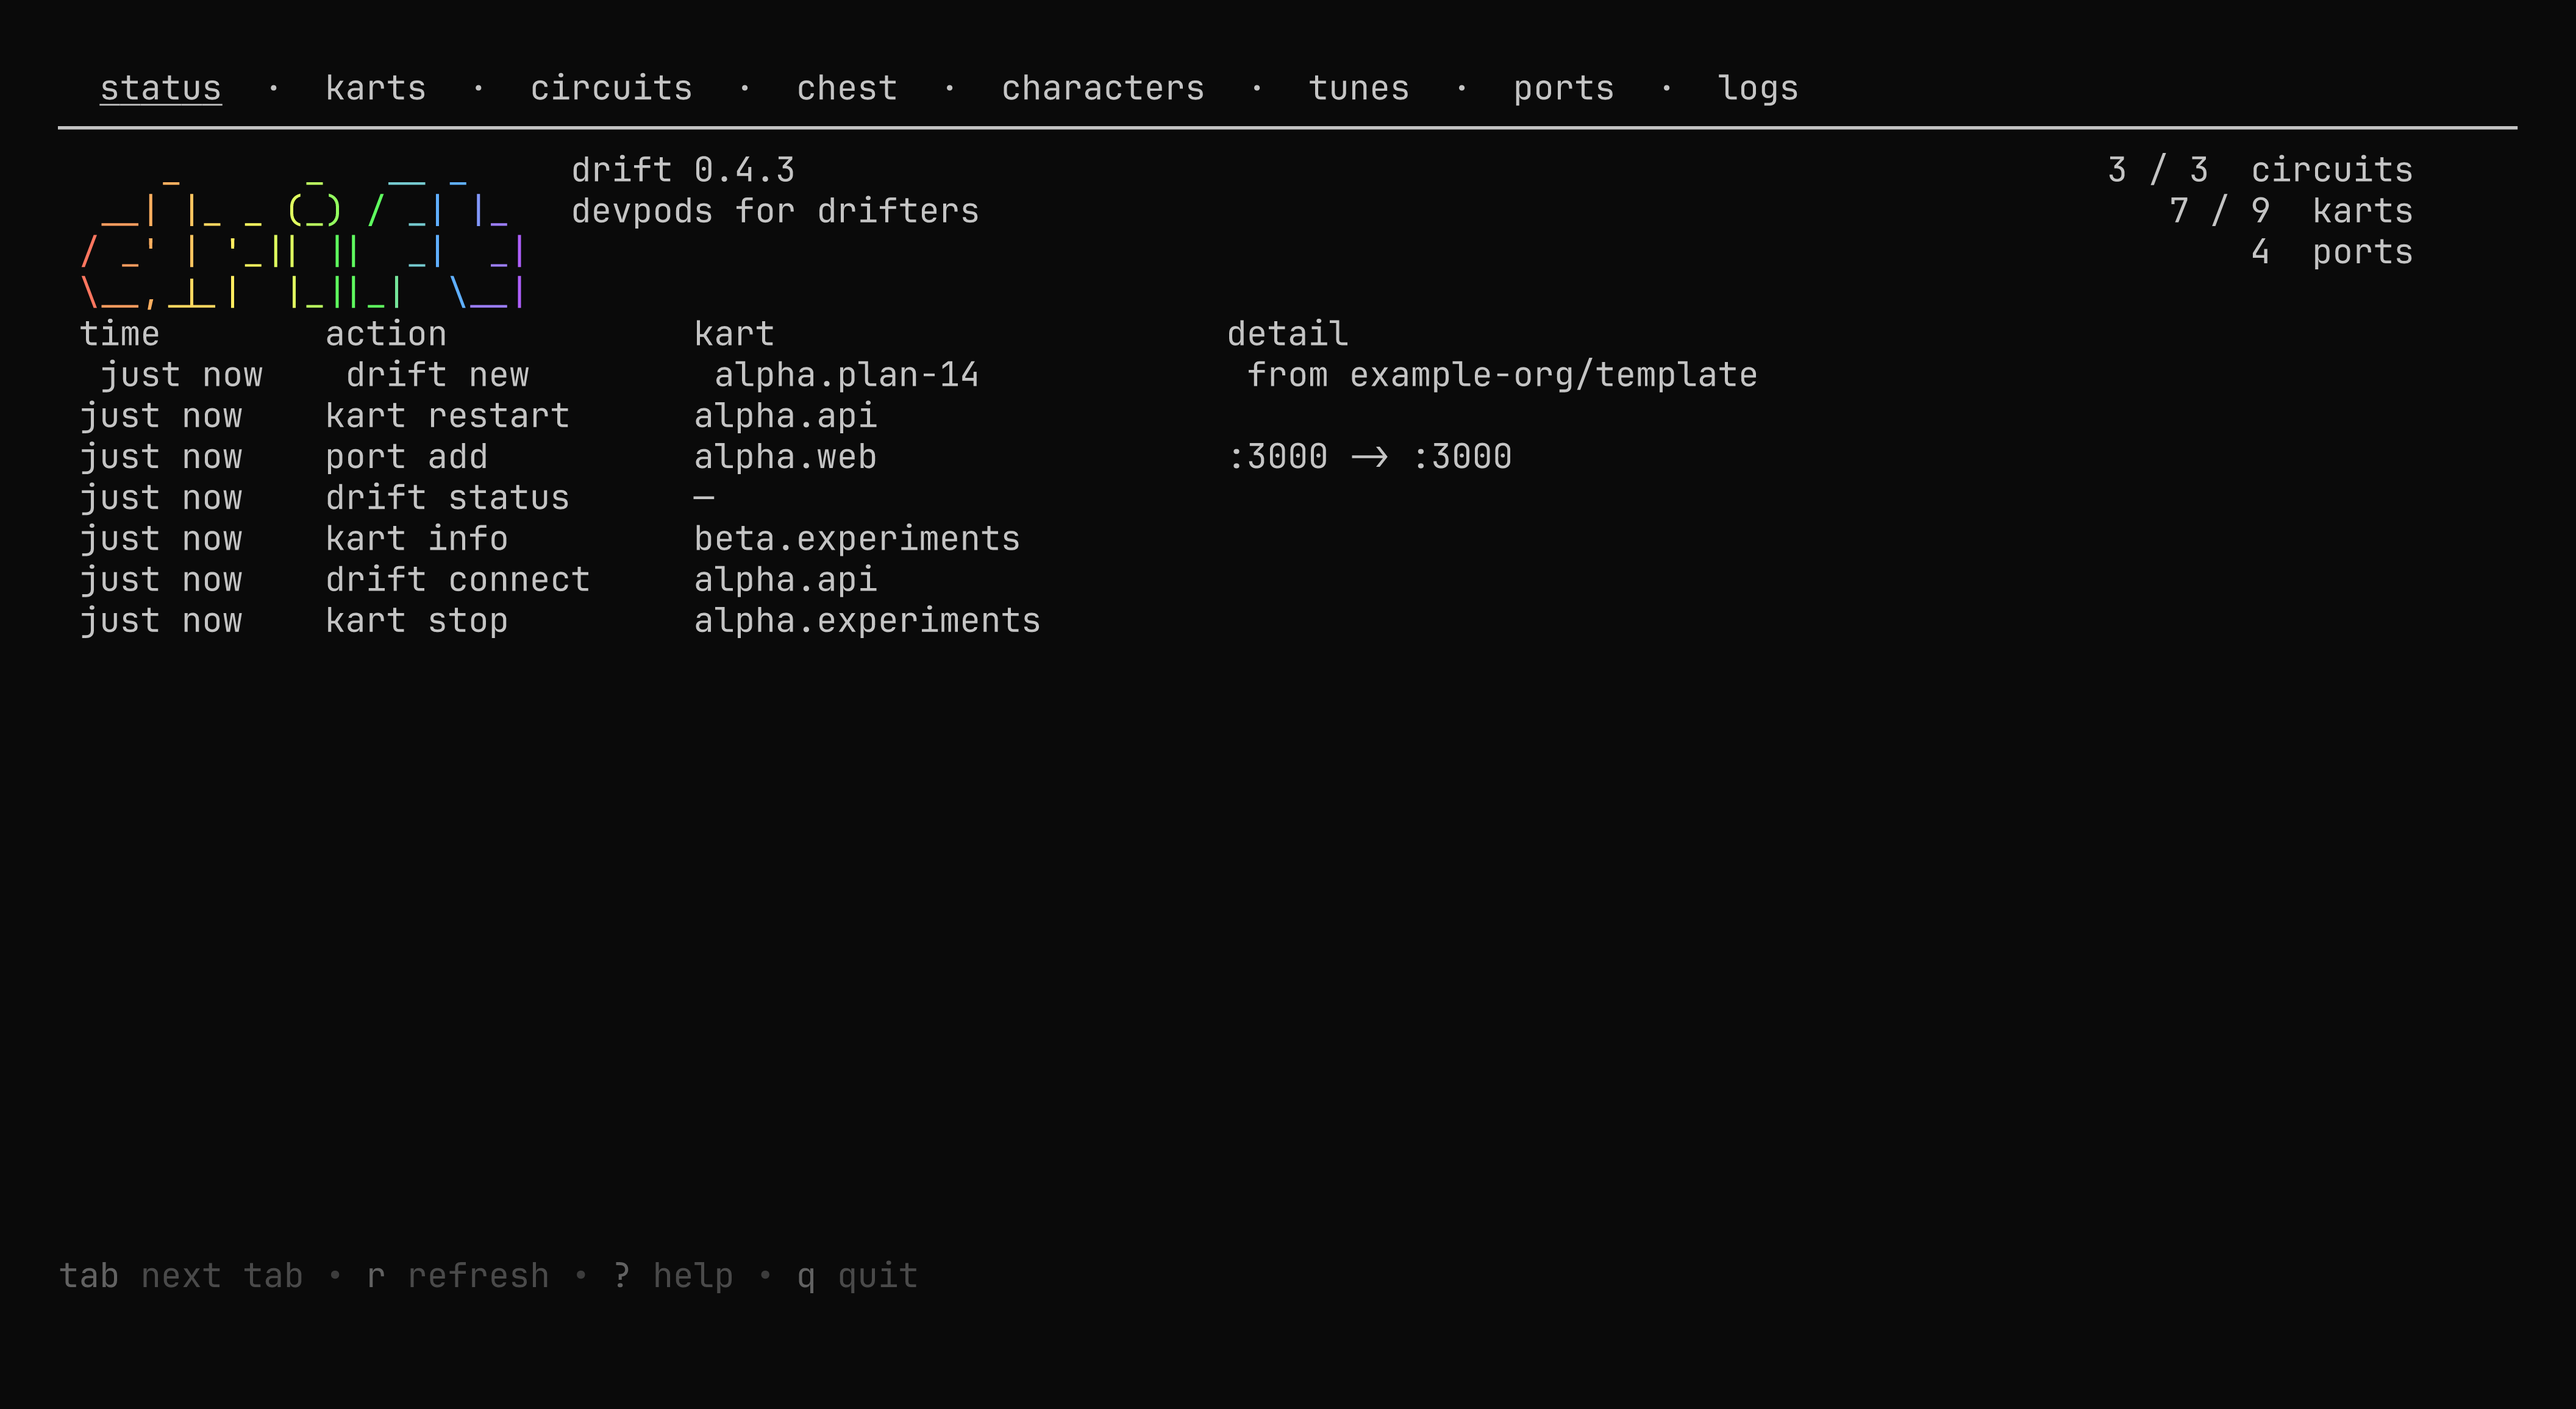
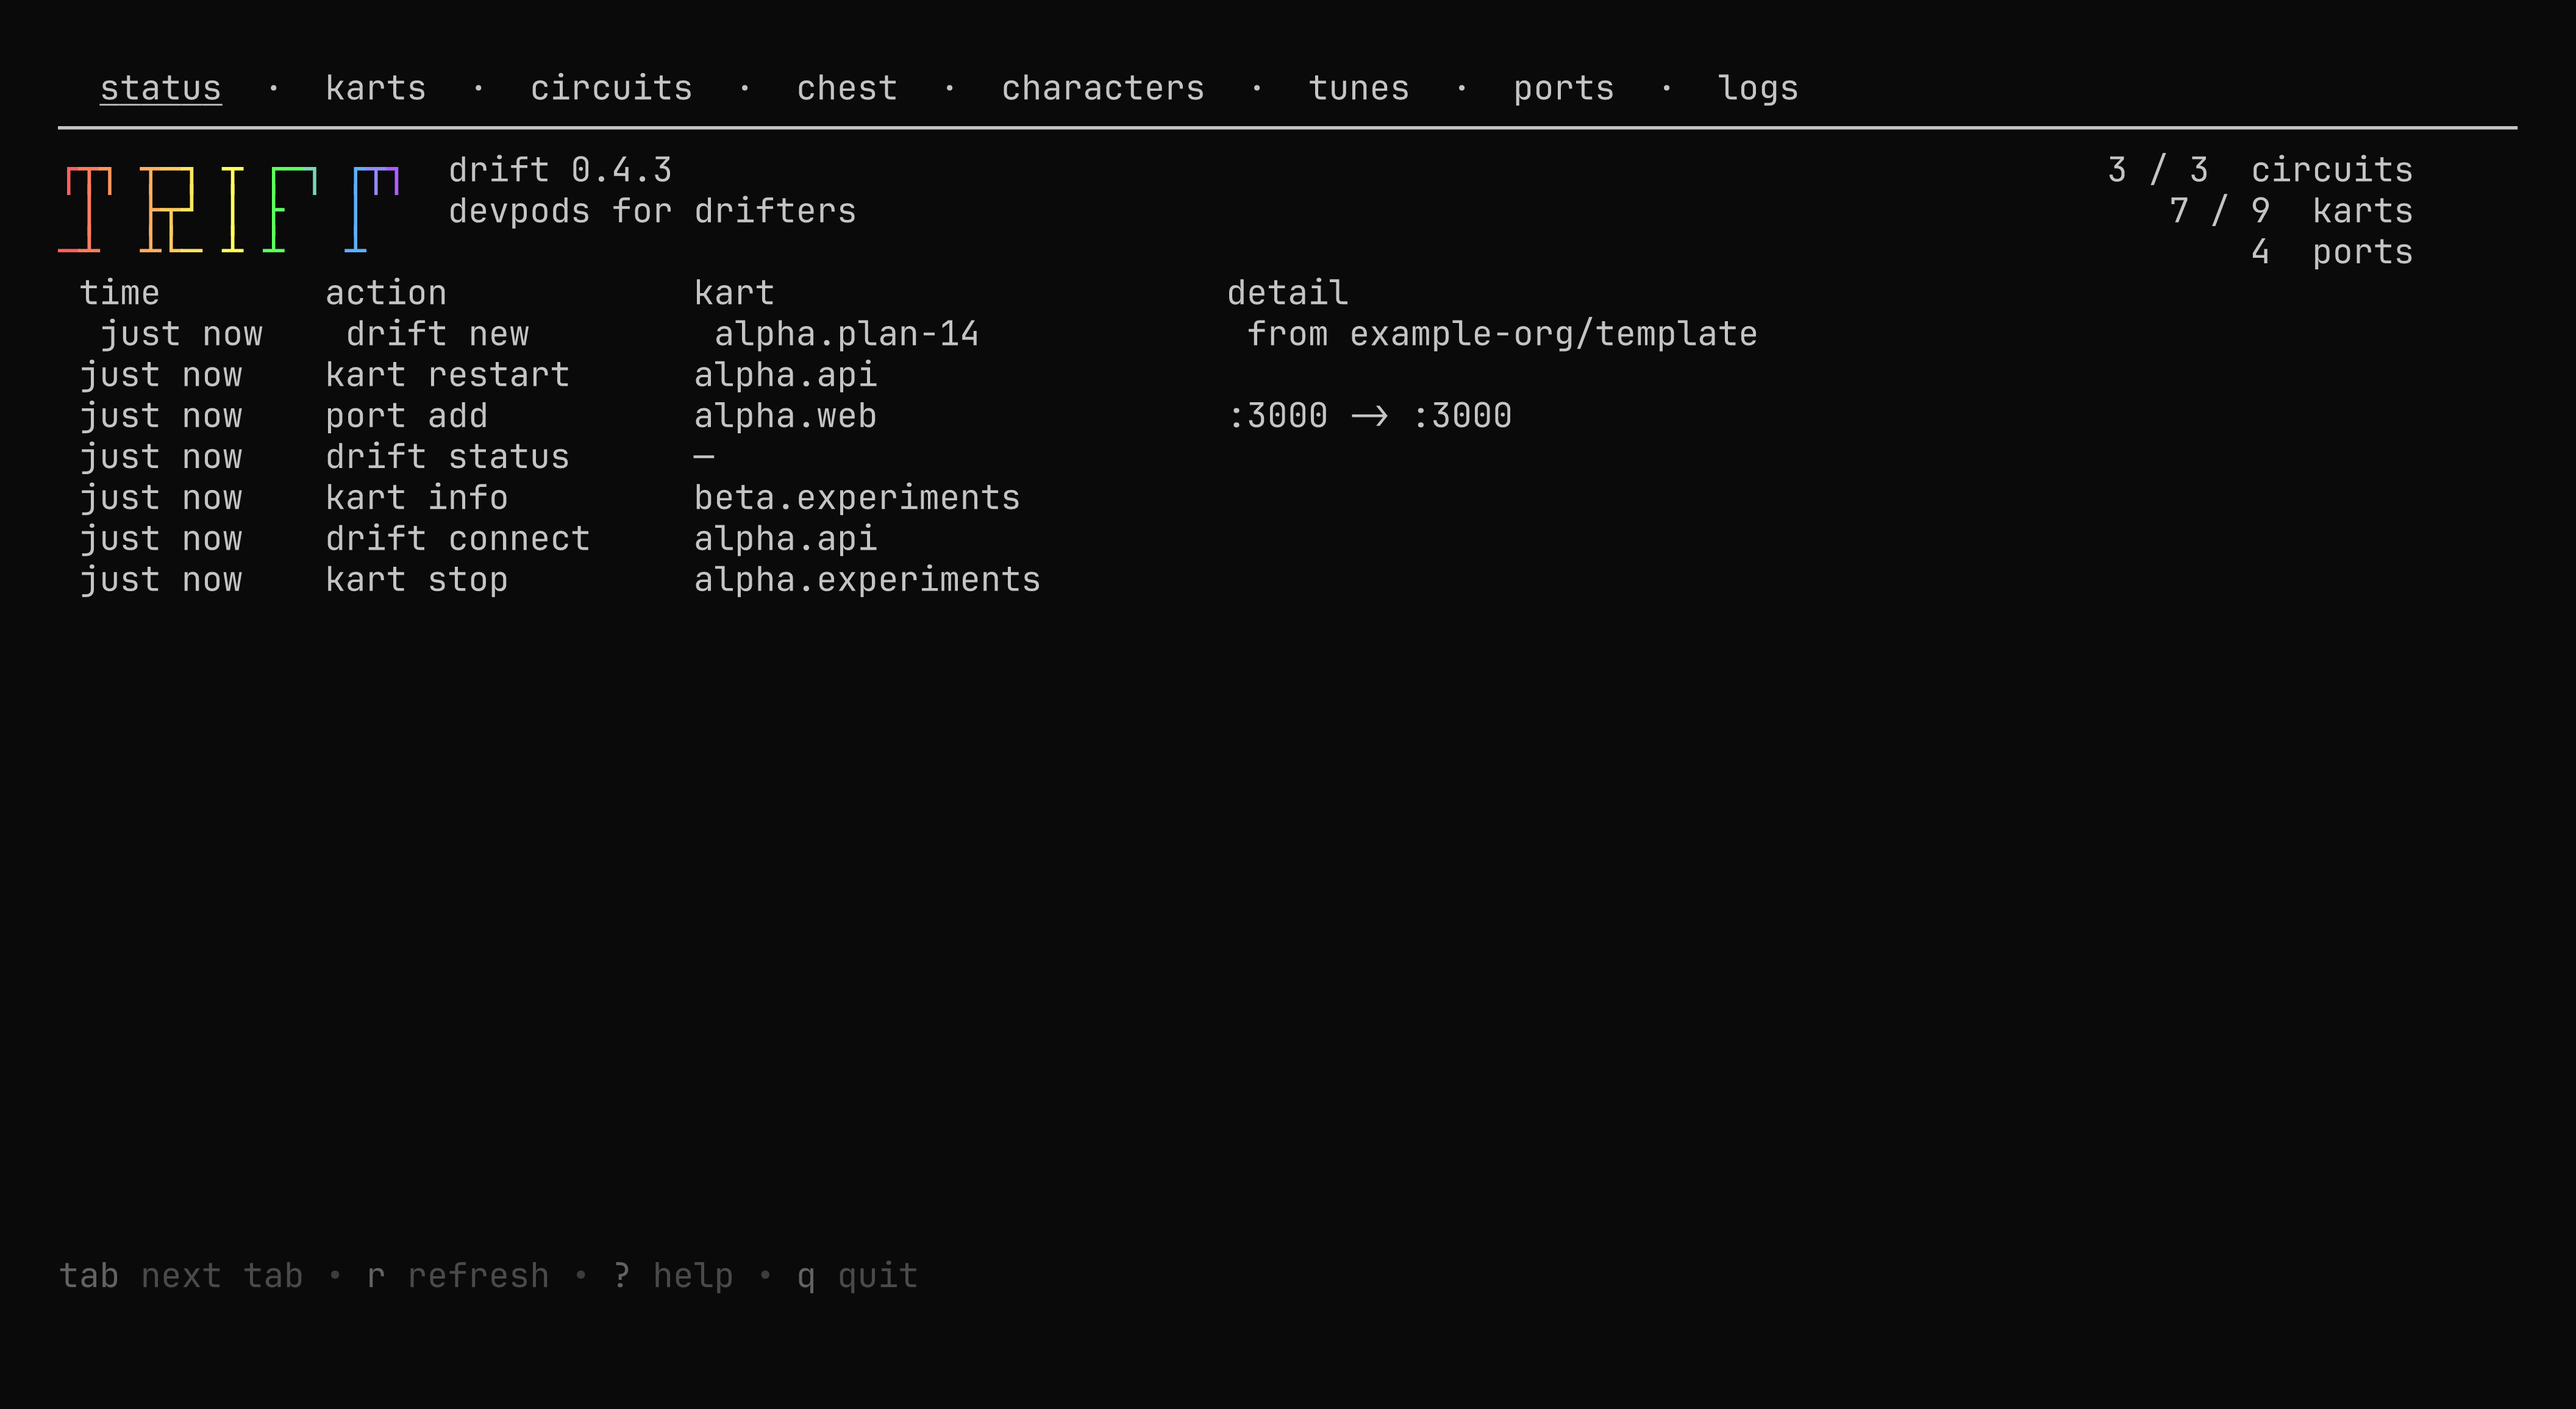
plan 14: restore original box-drawing drift wordmark
Reverts the earlier swap to a figlet-small rendering. The box-
drawing 3-row wordmark is the intended design; readability concerns
about it appearing as "TRIFT" weren't the design's problem to solve.

Snapshot goldens and docs/eval/status.png regenerated against the
restored wordmark.

diff --git a/internal/cli/ui/dashboard/banner.go b/internal/cli/ui/dashboard/banner.go
@@ -8,20 +8,17 @@ import (
 	"github.com/kurisu-agent/drift/internal/cli/ui"
 )
 
-// wordmark is the hardcoded "drift" banner. Four rows, 23 columns,
-// figlet "small" letterforms — readable as "drift" at a glance, and
-// every line is padded to the same width so the rainbow gradient
-// blends evenly across columns. The plan suggested Tmplr Rounded; we
-// chose readability over font fidelity. No runtime figlet renderer
-// per the plan's no-deps rule.
-const wordmark = "     _      _   __ _   \n" +
-	"  __| |_ _ (_) / _| |_ \n" +
-	" / _' | '_|| ||  _|  _|\n" +
-	" \\__,_|_|  |_||_|  \\__|"
+// wordmark is the hardcoded "drift" banner. Three rows, 17 columns
+// in a rounded box-drawing style. The plan calls for Tmplr Rounded;
+// we approximate with light box drawings since runtime figlet is out
+// of scope (per plan: "no runtime figlet renderer").
+const wordmark = `┌┬┐ ┬─┐ ┬ ┌─┐ ┌┬┐
+ │  ├┬┘ │ ├   │
+─┴  ┴└─ ┴ ┴   ┴ `
 
 // bannerWidth is the column width of the wordmark — used by the
 // entrance animation to compute the off-screen start position.
-const bannerWidth = 23
+const bannerWidth = 17
 
 // renderWordmark applies a horizontal rainbow gradient to the wordmark
 // glyphs. The gradient is computed once per render pass via
